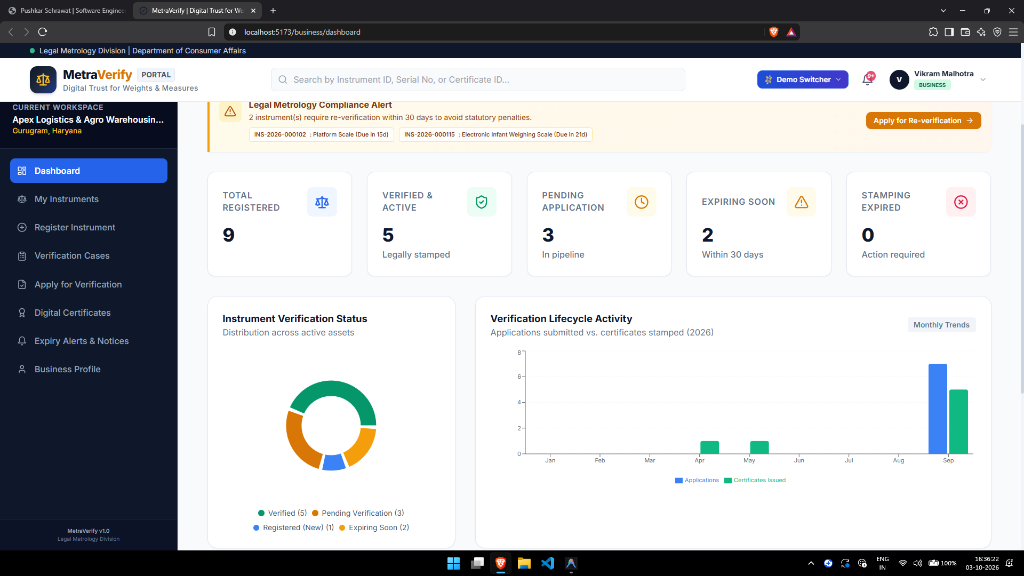
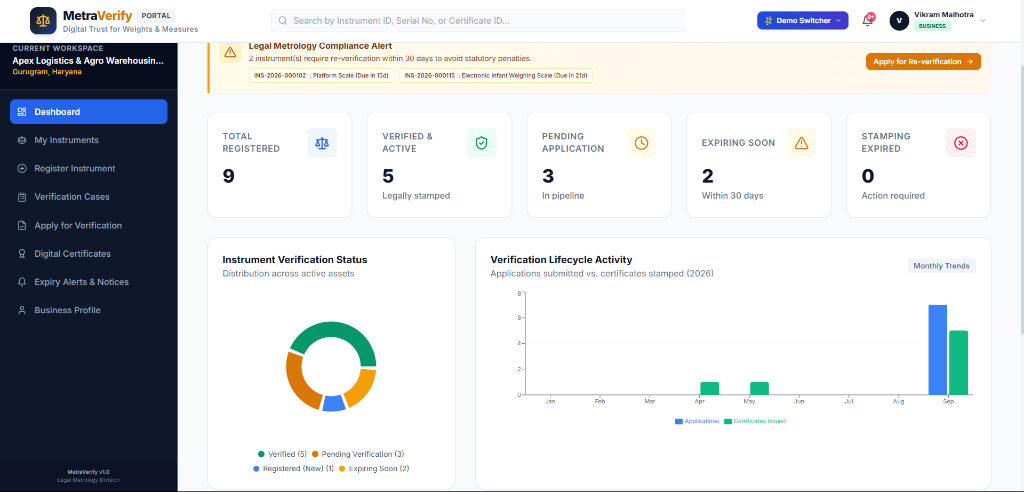
Update portfolio content and styles; refine descriptions, enhance layout, and improve responsiveness

diff --git a/index.html b/index.html
@@ -3,12 +3,12 @@
 <head>
   <meta charset="UTF-8" />
   <meta name="viewport" content="width=device-width, initial-scale=1.0" />
-  <meta name="description" content="Pushkar Sehrawat — Software Engineering Intern Candidate. LeetCode Knight (Top 9.34%). Building production systems with React, Node.js, Express, and MongoDB." />
+  <meta name="description" content="Pushkar Sehrawat — Software Engineering Intern Candidate. LeetCode Knight. Building production systems with React, Node.js, Express, and MongoDB." />
   <title>Pushkar Sehrawat | Software Engineering Intern</title>
   <link rel="preconnect" href="https://fonts.googleapis.com">
   <link rel="preconnect" href="https://fonts.gstatic.com" crossorigin>
   <link href="https://fonts.googleapis.com/css2?family=DM+Sans:wght@400;500;600;700&family=Space+Grotesk:wght@400;500;600;700&display=swap" rel="stylesheet">
-  <link rel="stylesheet" href="styles.css?v=2050" />
+  <link rel="stylesheet" href="styles.css?v=2052" />
 </head>
 <body>
   <div class="noise"></div>
@@ -21,7 +21,7 @@
 
   <!-- Sticky Header Navigation -->
   <header class="nav glass">
-    <a class="brand" href="#top">Pushkar Sehrawat<span>.</span></a>
+    <a class="brand" href="#top">Pushkar<span>.</span></a>
     <nav>
       <a href="#work">Projects</a>
       <a href="#problem-solving">Algorithms</a>
@@ -30,7 +30,7 @@
       <a href="#contact">Contact</a>
     </nav>
     <div class="nav-right">
-      <span class="status"><i></i> Open for SWE Internships</span>
+      <span class="status"><i></i> Open to Opportunities</span>
       <button class="theme" id="themeToggle" aria-label="Toggle theme">◐</button>
     </div>
   </header>
@@ -39,10 +39,10 @@
     <!-- HERO SECTION -->
     <section class="hero">
       <div class="hero-copy float-element">
-        <p class="eyebrow glow-text">SOFTWARE ENGINEERING INTERN CANDIDATE</p>
-        <h1 class="hero-title">Pushkar<br><em class="glitch" data-text="Sehrawat.">Sehrawat.</em></h1>
+        <p class="eyebrow glow-text">FULL-STACK DEVELOPER · SOFTWARE ENGINEER</p>
+        <h1 class="hero-title">Pushkar<em class="glitch" data-text=".">.</em></h1>
         <p class="hero-line">
-          Full-Stack Software Engineer focused on scalable backend systems and high-performance frontend architectures. <strong class="glow-text">LeetCode Knight (Top 9.34%)</strong> with strong fundamentals in Data Structures and Algorithms.
+          Full-stack developer building scalable backend systems and high-performance frontend experiences with React, Node.js and MongoDB. <strong class="glow-text">LeetCode Knight</strong> with strong fundamentals in Data Structures and Algorithms.
         </p>
         <div class="hero-actions">
           <a class="button primary glow-btn" href="#work">View Projects <span>↘</span></a>
@@ -54,8 +54,8 @@
 
       <div class="hero-aside float-element-delayed">
         <div class="hero-facts glass-card">
-          <div class="fact-item"><span>Education</span><strong>B.Tech Computer Science, J.C. Bose UST (YMCA)</strong><small>Expected Graduation: 2027</small></div>
-          <div class="fact-item"><span>Availability</span><strong>Summer / Fall 2026 SWE Internships</strong></div>
+          <div class="fact-item"><span>Education</span><strong>B.Tech Computer Science, J.C. Bose UST (YMCA)</strong><small>Expected Graduation: 2028</small></div>
+          <div class="fact-item"><span>Availability</span><strong>Summer / Fall 2027 SWE Internships</strong></div>
           <div class="fact-item"><span>Core Competencies</span><strong>React · Node.js · Express · MongoDB · C++</strong></div>
         </div>
       </div>
@@ -90,7 +90,7 @@
     <section class="section work" id="work">
       <div class="section-head reveal">
         <div>
-          <p class="eyebrow glow-text">PRODUCTION SYSTEMS</p>
+          <p class="eyebrow glow-text">SELECTED WORK</p>
           <h2>Engineering<br><em>Projects.</em></h2>
         </div>
       </div>
@@ -302,9 +302,9 @@
     <!-- SECTION 05: CONTACT -->
     <section class="contact reveal" id="contact">
       <div class="contact-inner glass-card">
-        <h2>Hire<br><em>Me.</em></h2>
+        <h2>Let's<br><em>Talk.</em></h2>
         <p style="max-width: 500px; font-size: 16px; margin: 0 0 30px; line-height: 1.6;">
-          Actively seeking Software Engineering Internships for Summer/Fall 2026. Ready to contribute to production codebases and tackle complex engineering challenges.
+          Open to software engineering internships. Happy to talk about backend systems, full-stack projects and data structures and algorithms.
         </p>
         <div class="contact-action-row">
           <a class="email glow-text" href="mailto:pushkarsehrawat0369@gmail.com">pushkarsehrawat0369@gmail.com <span>↗</span></a>
@@ -339,6 +339,6 @@
     <a href="#top" class="glow-link">Back to top ↑</a>
   </footer>
 
-  <script src="script.js?v=2050"></script>
+  <script src="script.js?v=2051"></script>
 </body>
 </html>

diff --git a/styles.css b/styles.css
@@ -438,3 +438,178 @@ body.light{background:#e8e8e6;color:#11110f; --glass-bg: rgba(255,255,255,0.6); 
   .contact h2{font-size:17vw}
   .resume-footer{flex-direction:column; gap:15px;}
 }
+
+/* Reference-inspired layout, keeping the existing lime accent. */
+body:not(.light) {
+  background-color: #080c18;
+  background-image:
+    radial-gradient(ellipse at 15% 20%, rgba(24, 35, 67, 0.42), transparent 42%),
+    radial-gradient(ellipse at 85% 48%, rgba(15, 29, 53, 0.34), transparent 48%);
+}
+
+body:not(.light)::before {
+  content: "";
+  position: fixed;
+  inset: 0;
+  z-index: -1;
+  pointer-events: none;
+  background-image:
+    radial-gradient(circle, rgba(200, 255, 67, 0.72) 1px, transparent 1.5px),
+    radial-gradient(circle, rgba(255, 255, 255, 0.42) 1px, transparent 1.5px);
+  background-position: 35px 45px, 110px 125px;
+  background-size: 190px 180px, 270px 240px;
+  opacity: 0.18;
+}
+
+.noise { opacity: 0.025; }
+.orb { opacity: 0.16; }
+.nav {
+  height: 80px;
+  padding: 0 6vw;
+  background: rgba(12, 17, 31, 0.88);
+  border-bottom: 1px solid rgba(255, 255, 255, 0.055);
+}
+.brand {
+  font-size: 26px;
+  letter-spacing: -0.075em;
+  text-shadow: none;
+}
+.nav nav { gap: clamp(18px, 2.6vw, 36px); }
+.nav nav a { opacity: 0.78; }
+.nav-right { gap: 16px; }
+.status {
+  text-transform: none;
+  letter-spacing: 0;
+  font-size: 12px;
+  font-weight: 600;
+  padding: 9px 16px;
+  background: rgba(255, 255, 255, 0.035);
+  border: 1px solid var(--glass-border);
+}
+.theme { width: 42px; height: 42px; }
+.button.ghost { color: var(--text-main); }
+
+.hero {
+  min-height: min(690px, calc(100vh - 80px));
+  grid-template-columns: minmax(0, 1.2fr) minmax(330px, 0.8fr);
+  align-items: center;
+  gap: 5vw;
+  padding: 60px 8vw 68px;
+}
+.hero-copy { min-width: 0; }
+.hero .eyebrow { margin-bottom: 28px; }
+.hero h1 {
+  font-size: clamp(88px, 10vw, 138px);
+  line-height: 0.94;
+  letter-spacing: -0.085em;
+  white-space: nowrap;
+}
+.hero-title .glitch {
+  color: var(--neon-lime);
+  font-style: normal;
+}
+.hero-title .glitch::before,
+.hero-title .glitch::after { display: none; }
+.hero-line {
+  max-width: 680px;
+  margin: 30px 0 34px;
+  font-size: clamp(18px, 1.85vw, 23px);
+  line-height: 1.58;
+}
+.hero-aside {
+  align-self: center;
+  justify-self: stretch;
+  width: 100%;
+  max-width: 440px;
+}
+.hero-facts {
+  padding: 22px 34px;
+  border-radius: 18px;
+  background: rgba(17, 23, 39, 0.78);
+  box-shadow: 0 22px 60px rgba(0, 0, 0, 0.22);
+}
+.fact-item { padding: 16px 0; }
+.fact-item span { font-size: 11px; }
+.fact-item strong { font-size: 16px; }
+
+.marquee-container {
+  margin-top: 0;
+  background: rgba(14, 19, 32, 0.54);
+}
+.section { padding-top: 100px; padding-bottom: 100px; }
+.section-head { margin-bottom: 48px; }
+.project {
+  padding: clamp(28px, 4vw, 52px);
+  border-radius: 18px;
+  background: rgba(17, 23, 39, 0.72);
+}
+.project-visual-frame {
+  border-radius: 14px;
+  box-shadow: 0 24px 55px rgba(0, 0, 0, 0.38);
+}
+.stat,
+.learning-block,
+.stack-block {
+  border-radius: 16px;
+  background: rgba(17, 23, 39, 0.72);
+}
+.contact-inner {
+  border-radius: 20px;
+  background: rgba(17, 23, 39, 0.76);
+}
+.resume-footer { background: rgba(12, 17, 31, 0.72); }
+
+.light::before { display: none; }
+.light .nav,
+.light .marquee-container,
+.light .project,
+.light .stat,
+.light .learning-block,
+.light .stack-block,
+.light .contact-inner,
+.light .resume-footer {
+  background: var(--glass-bg);
+}
+
+@media(max-width: 960px) {
+  .hero {
+    min-height: auto;
+    grid-template-columns: 1fr;
+    gap: 44px;
+    padding: 72px 7vw 64px;
+  }
+  .hero-aside {
+    justify-self: start;
+    max-width: none;
+    margin-top: 0;
+  }
+  .hero h1 { font-size: clamp(76px, 14vw, 112px); }
+}
+
+@media(max-width: 540px) {
+  .nav { height: 70px; }
+  .brand { font-size: 24px; }
+  .nav-right { gap: 10px; }
+  .theme { width: 38px; height: 38px; }
+  .hero { padding: 56px 6vw 50px; }
+  .hero h1 {
+    font-size: clamp(66px, 16vw, 88px);
+    letter-spacing: -0.09em;
+  }
+  .hero .eyebrow { font-size: 10px; letter-spacing: 0.12em; }
+  .hero-facts { padding: 16px 22px; }
+  .section { padding-top: 76px; padding-bottom: 76px; }
+}
+
+@media(prefers-reduced-motion: reduce) {
+  *,
+  *::before,
+  *::after {
+    scroll-behavior: auto !important;
+    animation-duration: 0.01ms !important;
+    animation-iteration-count: 1 !important;
+    transition-duration: 0.01ms !important;
+  }
+}
+
+html { overflow-x: clip; }

diff --git a/script.js b/script.js
@@ -80,7 +80,7 @@ style.textContent = ".reveal { opacity: 0; transform: translateY(40px) scale(0.9
 document.head.appendChild(style);
 
 // EXTREME 3D TILT EFFECT (2050 Aesthetic)
-const tiltElements = document.querySelectorAll('.3d-tilt, .glass-card');
+const tiltElements = document.querySelectorAll('[class~="3d-tilt"], .glass-card');
 tiltElements.forEach(el => {
   el.style.transformStyle = "preserve-3d";
   el.addEventListener('mousemove', (e) => {
